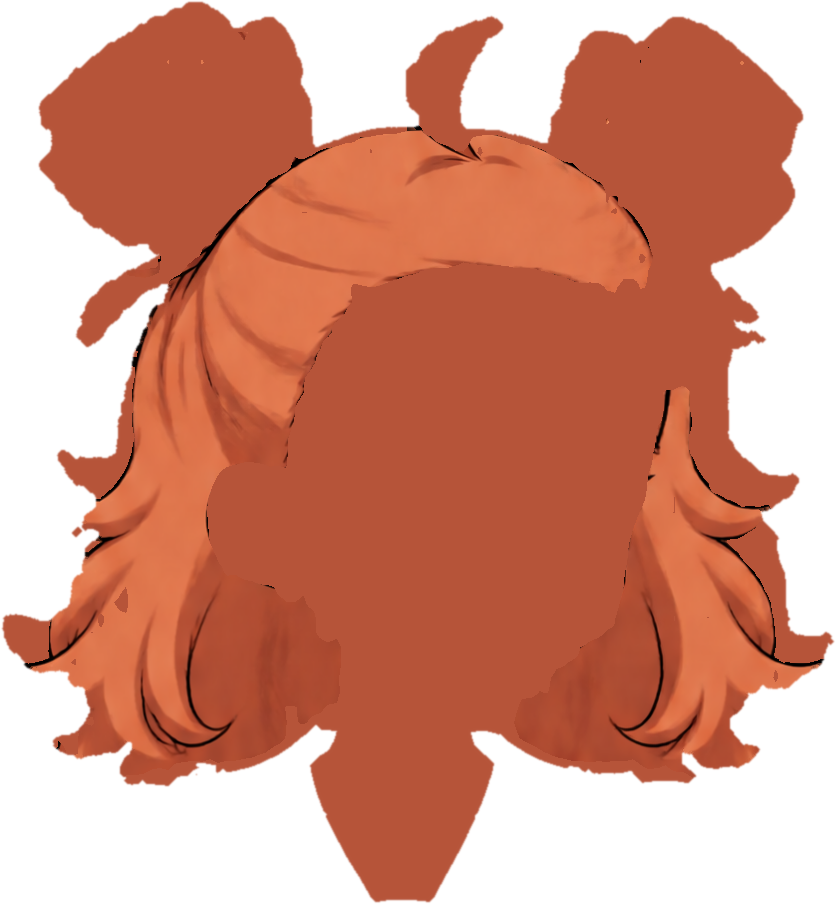
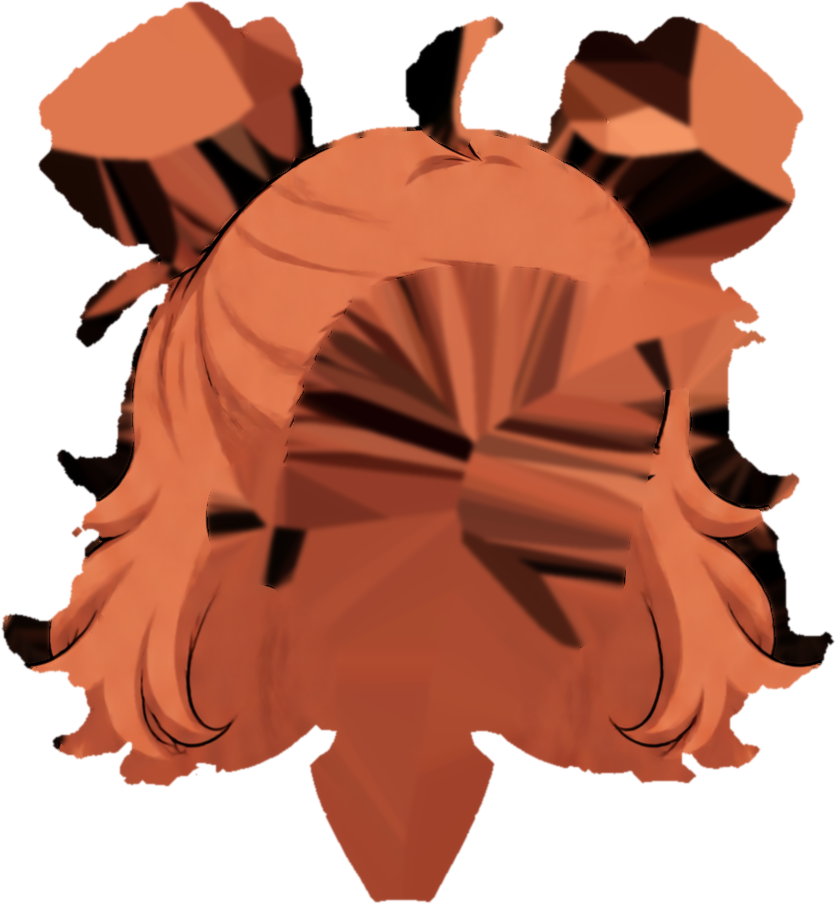
Rig v12: performance-range harness, heatmaps, textured back-hair fill, no invented face skin
- src/rom.js tests the performance range (head tilt +-10, body tilt +-5, front turn +-15, nod +-0.8; ?stress for extremes)
  and rest segments long enough for springs to settle (correct baselines)
- tools/romheat.py: per-layer heatmaps of exposure over every frame of a view
- back-hair plate: drawn back hair where the companion drawing has it, the nearest drawn strands extended elsewhere
- face: no more ellipse skin fill under the hair (it extended past the true face outline and showed as a pale block when
  hair swung); flat skin under eye/mouth patches is not counted as invented (it matches their skin edges)

diff --git a/projects/tsuzuku/src/rom.js b/projects/tsuzuku/src/rom.js
@@ -4,29 +4,33 @@
 // window.ROM lists the segments ([name, t0, t1]) for the checker.
 {
   const segs = [], S = Math.sin, PI = Math.PI;
+  // PERFORMANCE range (what choreography uses; docs/research §4): head tilt +-10 deg, body tilt +-5 deg, front-head turn +-0.5
+  // (+-15 deg: beyond that the drawn half and three-quarter views take over), nod +-0.8. ?stress (window.ROM_STRESS) runs the
+  // old extremes instead.
+  const K = window.ROM_STRESS || /stress/.test(location.search) ? { x: 1, z: 14, bz: 7, y: 1 } : { x: .5, z: 10, bz: 5, y: .8 };
   const add = (name, dur, fn) => segs.push({ name, dur, fn });
   const sweep = u => S(2 * PI * u);                     // 0 -> +1 -> 0 -> -1 -> 0
   const VIEWS = ['F', 'HL', 'L', 'HR', 'R'];
-  for (const v of VIEWS) add(`rest ${v}`, .5, () => ({ view: v }));
+  for (const v of VIEWS) add(`rest ${v}`, 1.5, () => ({ view: v }));          // long enough for the springs to settle after a switch (baselines at the end)
   // controls alone (front head), both directions
-  add('angleX F', 2, u => ({ angleX: sweep(u) }));
-  add('angleY F', 2, u => ({ angleY: sweep(u) }));
-  add('angleZ F', 2, u => ({ angleZ: 14 * sweep(u) }));
-  add('bodyZ', 2, u => ({ bodyZ: 7 * sweep(u) }));
+  add('angleX F', 2, u => ({ angleX: K.x * sweep(u) }));
+  add('angleY F', 2, u => ({ angleY: K.y * sweep(u) }));
+  add('angleZ F', 2, u => ({ angleZ: K.z * sweep(u) }));
+  add('bodyZ', 2, u => ({ bodyZ: K.bz * sweep(u) }));
   add('bodyX', 2, u => ({ bodyX: sweep(u) }));
   add('breath+bounce', 2, u => ({ breath: .5 + .5 * sweep(u), bounce: -18 * Math.abs(S(4 * PI * u)) }));
   // combinations
-  add('X+Z', 2, u => ({ angleX: sweep(u), angleZ: 12 * sweep(u) }));
-  add('X-Z', 2, u => ({ angleX: sweep(u), angleZ: -12 * sweep(u) }));
-  add('X+Y', 2, u => ({ angleX: sweep(u), angleY: .7 * S(4 * PI * u) }));
-  add('Z+bodyZ', 2, u => ({ angleZ: 12 * sweep(u), bodyZ: 6 * sweep(u) }));
+  add('X+Z', 2, u => ({ angleX: K.x * sweep(u), angleZ: K.z * sweep(u) }));
+  add('X-Z', 2, u => ({ angleX: K.x * sweep(u), angleZ: -K.z * sweep(u) }));
+  add('X+Y', 2, u => ({ angleX: K.x * sweep(u), angleY: K.y * .8 * S(4 * PI * u) }));
+  add('Z+bodyZ', 2, u => ({ angleZ: K.z * sweep(u), bodyZ: K.bz * sweep(u) }));
   // fast whips (springs): a snap each way, then settle
-  add('whip X', 2, u => ({ angleX: u < .08 ? 0 : u < .5 ? 1 : -1 }));
-  add('whip bodyZ', 2, u => ({ bodyZ: u < .08 ? 0 : u < .5 ? 7 : -7 }));
+  add('whip X', 2, u => ({ angleX: u < .08 ? 0 : u < .5 ? K.x : -K.x }));
+  add('whip bodyZ', 2, u => ({ bodyZ: u < .08 ? 0 : u < .5 ? K.bz : -K.bz }));
   // inside each drawn view: tilt, nod, small turn
   for (const v of VIEWS.slice(1)) {
-    add(`tilt ${v}`, 1.5, u => ({ view: v, angleZ: 12 * sweep(u) }));
-    add(`nod ${v}`, 1.5, u => ({ view: v, angleY: .8 * sweep(u) }));
+    add(`tilt ${v}`, 1.5, u => ({ view: v, angleZ: K.z * sweep(u) }));
+    add(`nod ${v}`, 1.5, u => ({ view: v, angleY: K.y * sweep(u) }));
     add(`turn ${v}`, 1.5, u => ({ view: v, angleX: .3 * sweep(u) }));
   }
   // every view switch both ways, at anime speed (two drawings each), held between

diff --git a/tools/romheat.py b/tools/romheat.py
@@ -1,0 +1,48 @@
+"""Where do a rig's problems happen? Heatmaps accumulated over every frame of a range-of-motion run (after tools/romrun.py).
+
+    .venv/bin/python tools/romheat.py projects/<film>/out/rom [--seg tilt] [--layers hair_back,face,neck] [--view F]
+Writes OUT/heat.png: one panel per layer (invented pixels exposed, counted per pixel over frames) plus holes, each drawn over
+the rest frame of that view (only frames in that view are counted). Brighter = exposed in more frames.
+"""
+import json, os, sys
+import numpy as np
+from PIL import Image, ImageDraw
+from scipy import ndimage as ndi
+sys.path.insert(0, os.path.dirname(os.path.abspath(__file__)))
+import romcheck2 as rc
+
+a = sys.argv[1:]; O = a[0]; opt = lambda k, d: a[a.index(k) + 1] if k in a else d
+ROM = json.load(open(os.path.join(O, 'rom.json'))); rc.setup(os.path.join(O, 'ids.json'))
+want = [s for s in opt('--seg', '').split(',') if s]; layers = opt('--layers', 'hair_back,face,neck,hair_side_R').split(','); V = opt('--view', 'F')
+FPS = 24; frames = []
+for name, t0, t1 in ROM:
+    if want and not any(w in name for w in want): continue
+    frames += list(range(int(round(t0 * FPS)), int(round(t1 * FPS))))
+heat = {l: np.zeros((1080, 1920), np.int32) for l in layers + ['holes']}; n = 0
+for f in frames:
+    p = os.path.join(O, 'romid', f'f{f:05d}.png')
+    if not os.path.exists(p): continue
+    r = rc.decode(p)
+    if r is None: continue
+    lab, inv, (x0, y0) = r; h, w = lab.shape
+    names = {i + 1: k for i, k in enumerate(rc.KEYS)}
+    vs = {}
+    for i in np.unique(lab):
+        if i and ':' in names[i]: vs[names[i].split(':')[0]] = vs.get(names[i].split(':')[0], 0) + 1
+    if (max(vs, key=vs.get) if vs else 'F') != V: continue
+    n += 1
+    for l in layers:
+        ids = [i for i, k in names.items() if k.split(':')[-1] == l]
+        m = inv & np.isin(lab, ids); heat[l][y0:y0 + h, x0:x0 + w] += m
+    bg = lab == 0; L, k = ndi.label(bg); edge = set(np.unique(np.concatenate([L[0], L[-1], L[:, 0], L[:, -1]])))
+    hm = bg & ~np.isin(L, list(edge)); heat['holes'][y0:y0 + h, x0:x0 + w] += hm
+restf = next(int((t1 - .05) * FPS) for nm, t0, t1 in ROM if nm == f'rest {V}')
+base = np.array(Image.open(os.path.join(O, 'romid', f'f{restf:05d}.png')).convert('L')).astype(float) * .35
+tiles = []
+for l in layers + ['holes']:
+    H = heat[l].astype(float); H = H / max(1, n)
+    im = np.stack([base] * 3, -1); m = H > 0; im[m] = im[m] * .3 + np.stack([255 * np.clip(H[m] * 4, 0, 1), 255 * np.clip(H[m] * 1.5, 0, 1) * .6, 60 + 0 * H[m]], -1)
+    t = Image.fromarray(im.clip(0, 255).astype(np.uint8)).crop((480, 0, 1440, 1080)).resize((480, 540)); ImageDraw.Draw(t).text((6, 6), f'{l}  ({n} frames, view {V})', fill=(255, 255, 0)); tiles.append(t)
+sh = Image.new('RGB', (len(tiles) * 485, 540), 'black')
+for i, t in enumerate(tiles): sh.paste(t, (i * 485, 0))
+sh.save(os.path.join(O, 'heat.png')); print('heat:', os.path.join(O, 'heat.png'), n, 'frames')

diff --git a/tools/rigbuild.py b/tools/rigbuild.py
@@ -126,6 +126,7 @@ def main(ldir, spec, out):
             x0, y0, x1, y1 = sp['flat']; sm = L[n][y0:y1, x0:x1]; col = np.median(sm[sm[:, :, 3] > 200][:, :3], 0)
             F = sp.get('flat_zone'); fz = region(F, L, shape) & hole if F else np.zeros(shape, bool)
             L[n] = fill_from(L[n], hole & ~fz); L[n][fz, :3] = col.astype(np.uint8); L[n][fz, 3] = 255
+            hole = hole & ~fz            # flat skin under the eye/mouth patches matches their own skin edges: not counted as invented
         else: L[n] = fill_from(L[n], hole)
         review |= hole; inv[n] |= hole
         print(f'  under {n:12s} +{hole.sum():8d} px')
@@ -157,7 +158,12 @@ def main(ldir, spec, out):
             d0 = os.path.dirname(spec)             # plate extends to all of it (the build then hides whatever would show at rest)
             V = load(os.path.join(d0, sp['img'])); M = (np.array(Image.open(os.path.join(d0, sp['mask']))) > 127) & (V[:, :, 3] > 200)
             P[M] = V[M]; P[M, 3] = 255; inv[n][M] = False; Z |= M
-            print(f'  plate {n:12s} drawn from {sp["img"]}: {M.sum()} px')
+            rest = Z & ~M                          # the rest of the plate: nearest drawn hair pixel, softened (texture continues)
+            if rest.any() and M.any():
+                _, (iy, ix) = ndi.distance_transform_edt(~M, return_indices=True); ext = V[iy, ix, :3].astype(float)
+                ext = np.stack([ndi.gaussian_filter(ext[:, :, c], 2.5) for c in range(3)], -1)
+                P[rest, :3] = ext[rest].clip(0, 255).astype(np.uint8)
+            print(f'  plate {n:12s} drawn from {sp["img"]}: {M.sum()} px (+{rest.sum()} extended)')
         L[n] = P; i = order.index(sp['behind']) + 1 if sp.get('behind') in order else len(order); order.insert(i, n)
         print(f'  plate {n:12s} {Z.sum():8d} px  colour {col.astype(int).tolist()}')
     # invariant: every filled pixel must be hidden at rest by an opaque drawn layer in front of it, so the rig at rest is exactly
